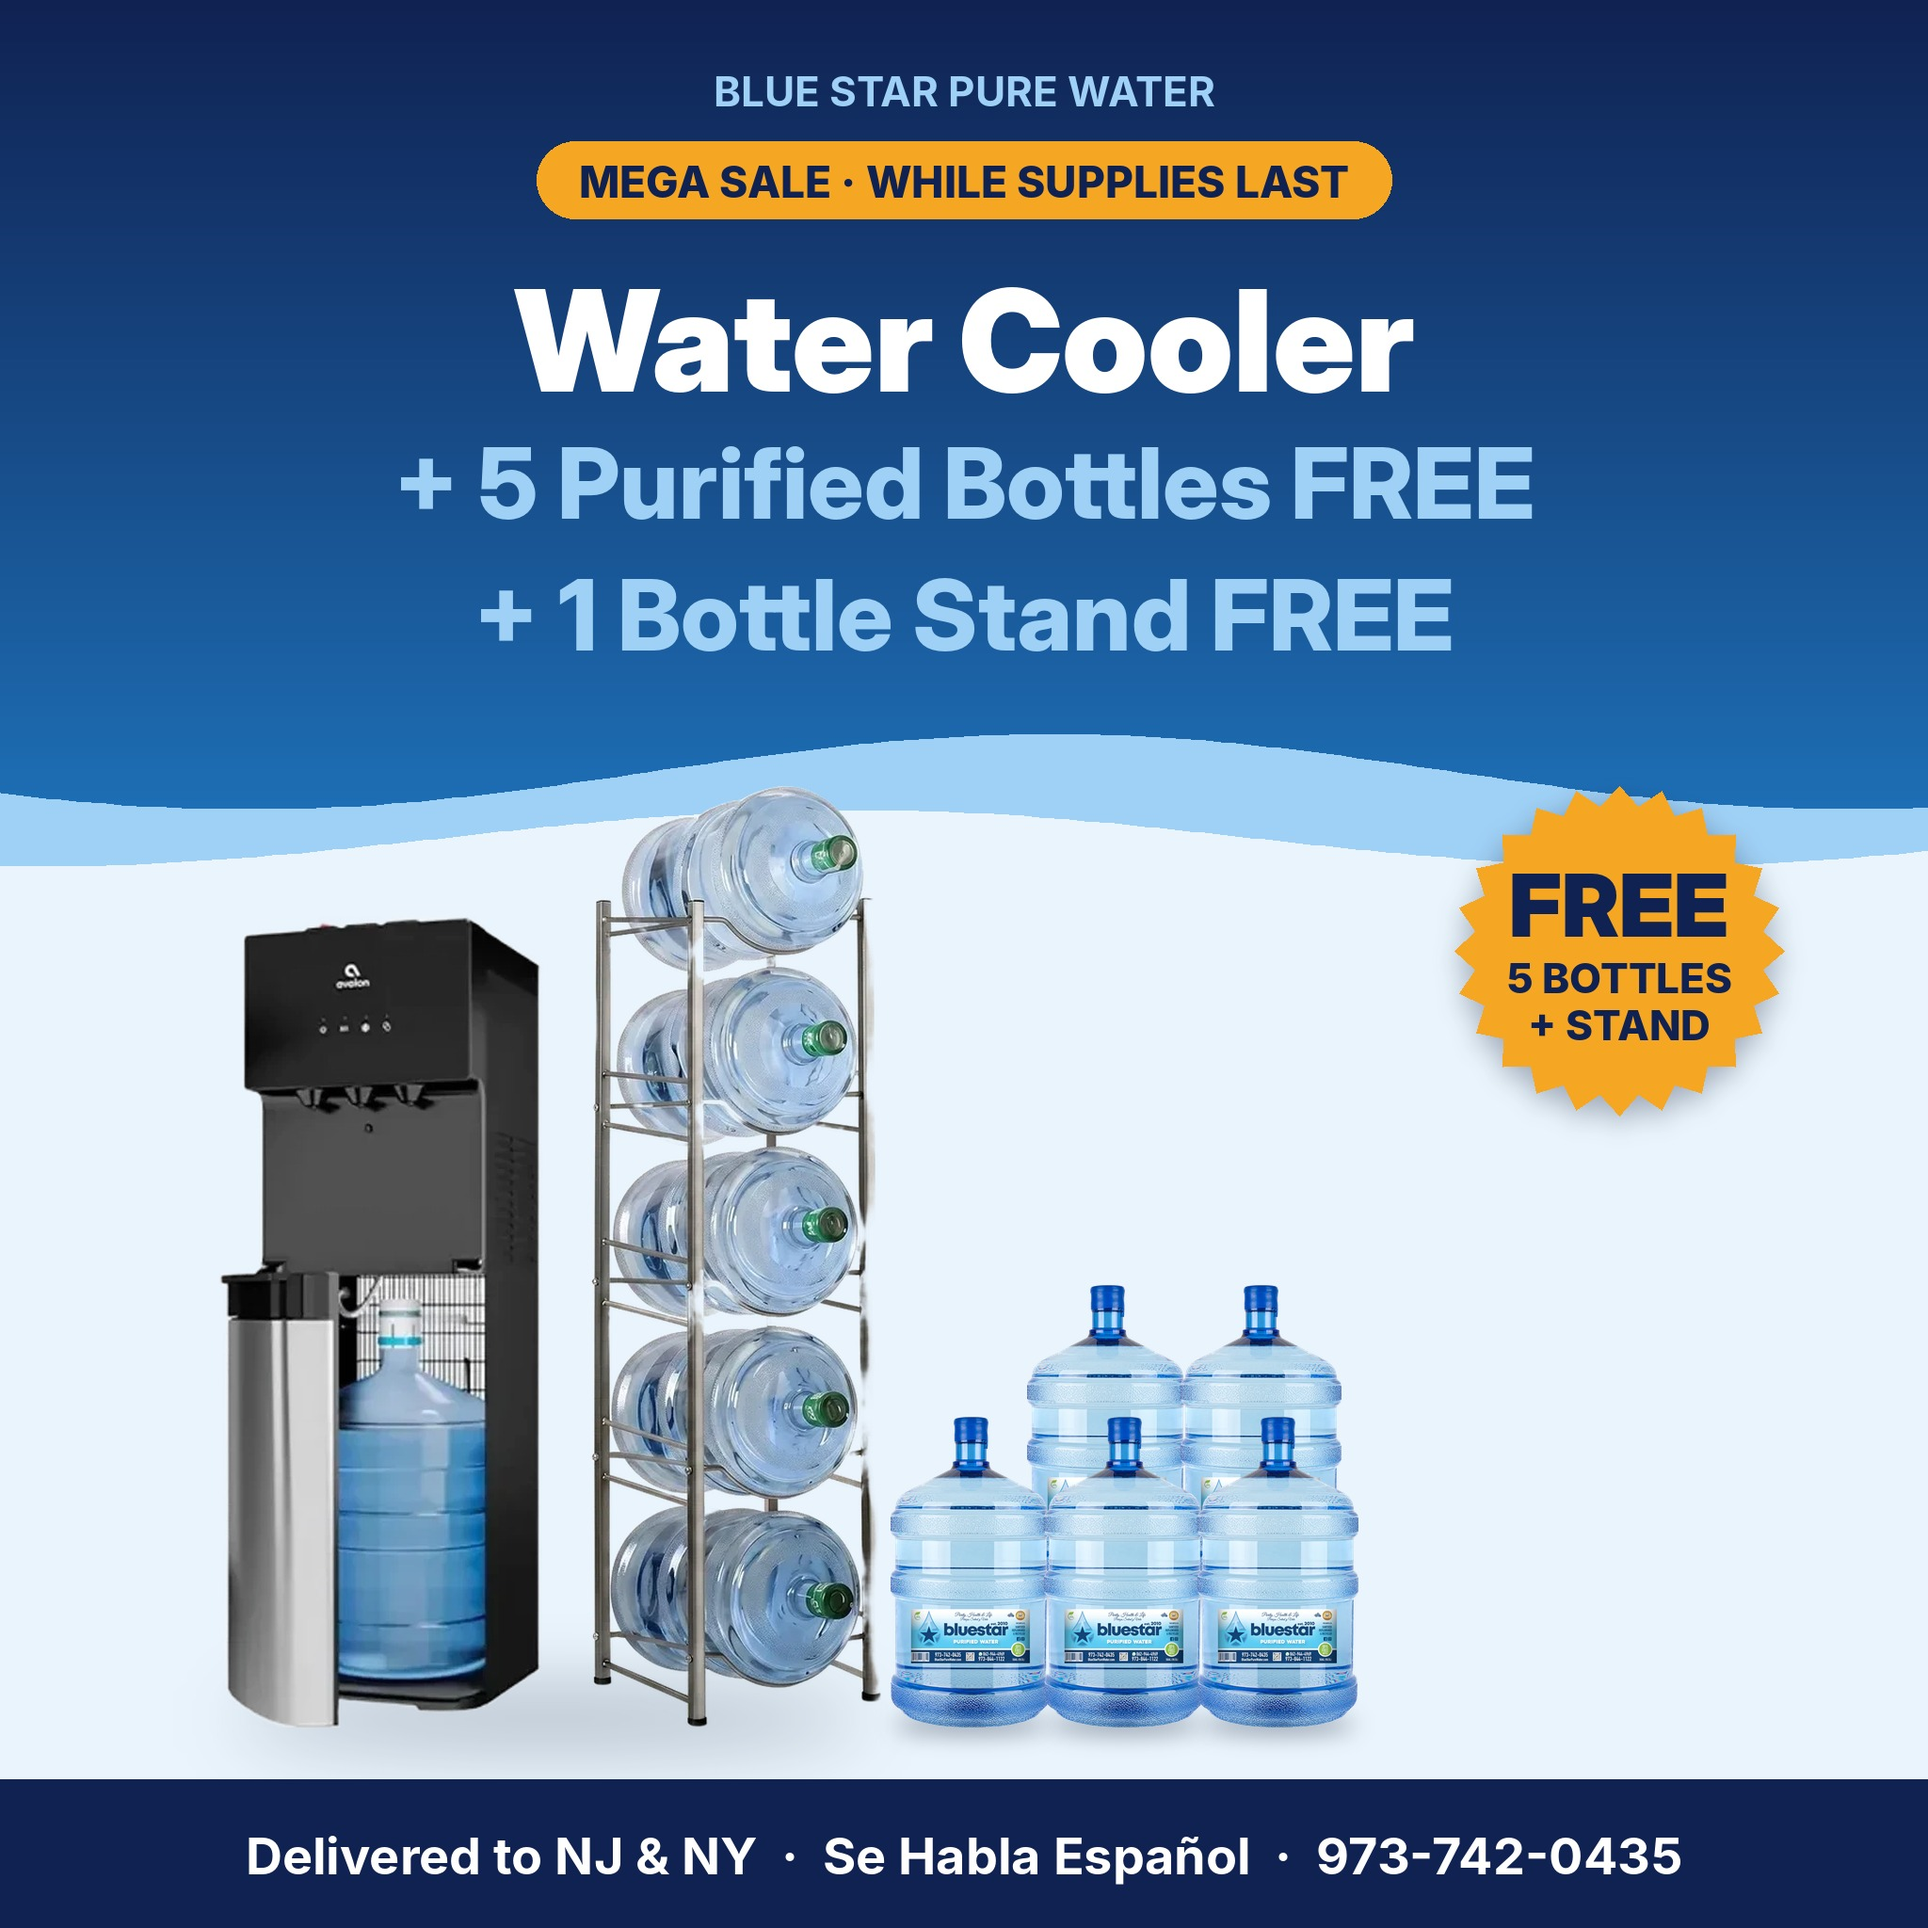
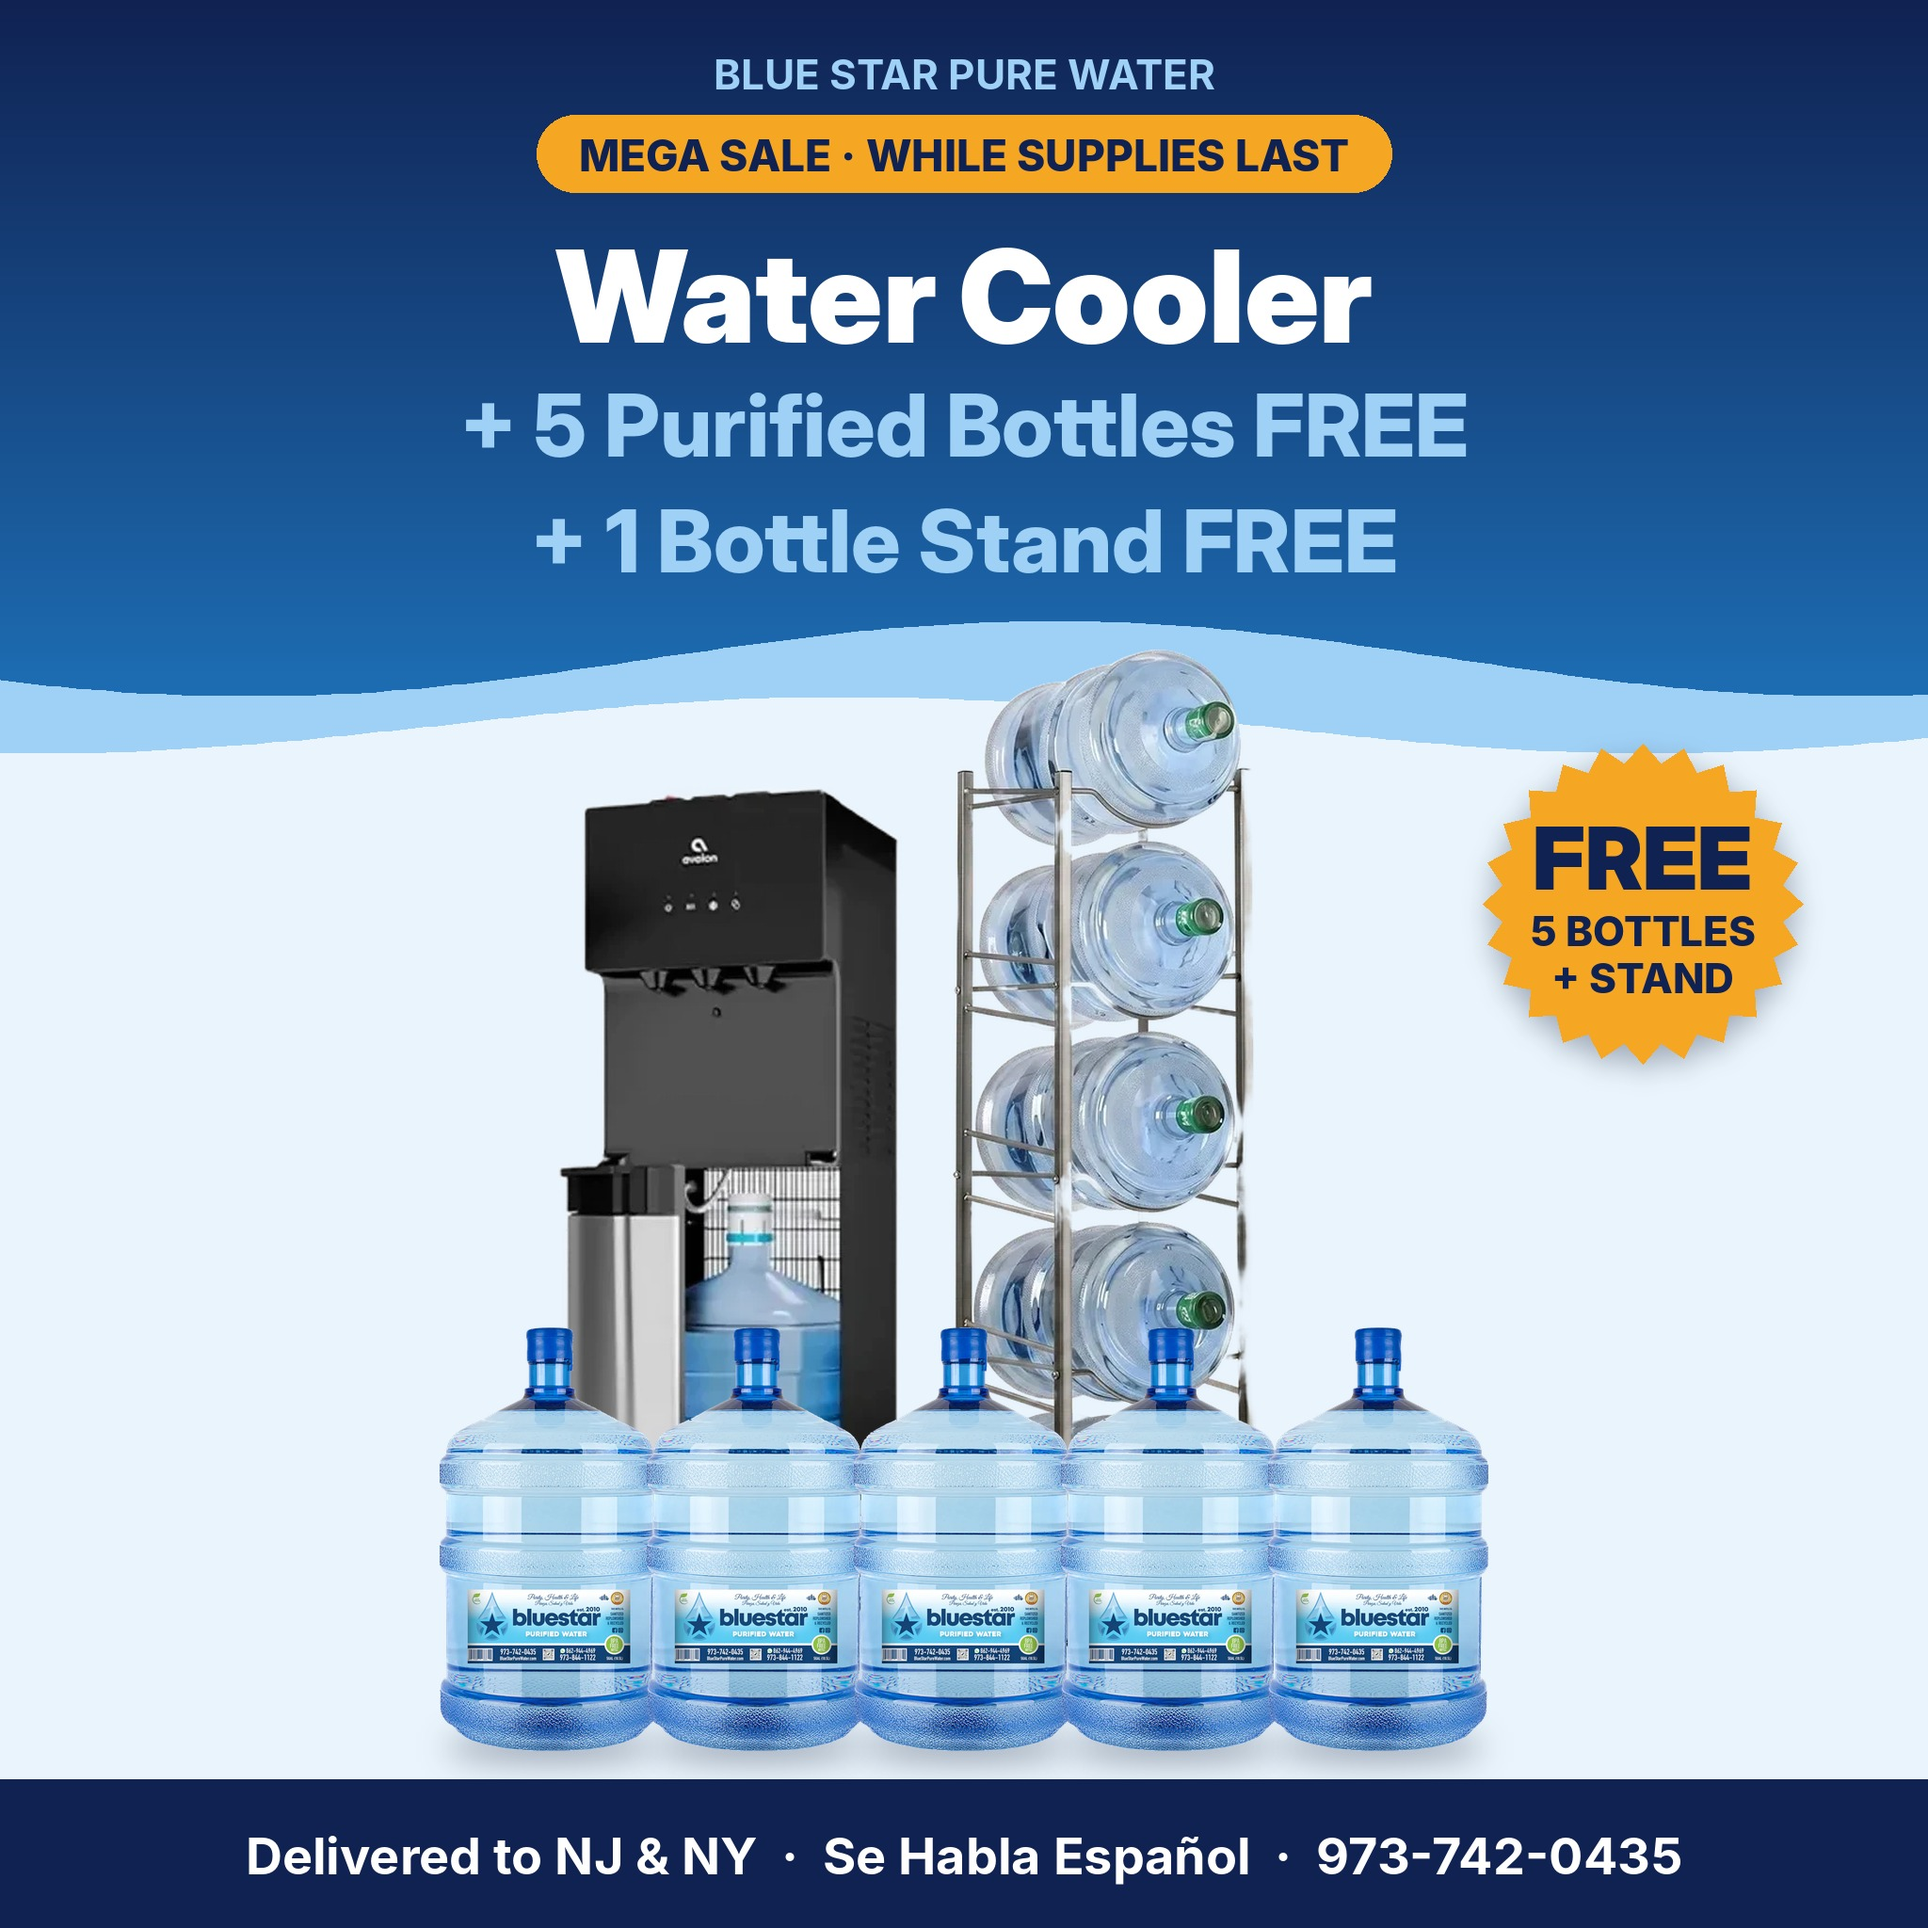
Bundle promo: bigger products, jugs in one row
Claude-Session: https://claude.ai/code/session_011y2TH2zgT7H1AYYPi3Ntwd

diff --git a/product-photos/src/bundle_promo.py b/product-photos/src/bundle_promo.py
@@ -15,7 +15,7 @@ c=Image.new('RGBA',(W,W),SKY+(255,))
 d=ImageDraw.Draw(c)
 # top gradient band with wave edge
 top=Image.new('RGBA',(W,W),(0,0,0,0)); td=ImageDraw.Draw(top)
-band=820
+band=700
 for y in range(band+120):
     t=y/(band+120); col=tuple(int(NAVY[i]*(1-t)+BLUE[i]*t) for i in range(3))
     td.line([(0,y),(W,y)],fill=col+(255,))
@@ -31,17 +31,17 @@ d=ImageDraw.Draw(c)
 def ctext(y,txt,f,fill):
     w=d.textlength(txt,font=f); d.text(((W-w)/2,y),txt,font=f,fill=fill); return f.getbbox(txt)[3]
 # brand line
-ctext(70,T['brand'],font('Inter-Bold.otf',44),(159,208,245))
+ctext(52,T['brand'],font('Inter-Bold.otf',44),(159,208,245))
 # pill
 pf=font('Inter-ExtraBold.otf',46); pw=d.textlength(T['pill'],font=pf)+90; px=(W-pw)/2
-d.rounded_rectangle((px,150,px+pw,232),radius=41,fill=GOLD); ctext(165,T['pill'],pf,NAVY)
+d.rounded_rectangle((px,122,px+pw,204),radius=41,fill=GOLD); ctext(137,T['pill'],pf,NAVY)
 # headline (auto-fit)
 def fit(txt,name,size,maxw):
     while d.textlength(txt,font=font(name,size))>maxw: size-=4
     return font(name,size)
-ctext(270,T['h1'],fit(T['h1'],'InterDisplay-Black.otf',150,1850),WHITE)
-ctext(450,T['h2'],fit(T['h2'],'InterDisplay-ExtraBold.otf',104,1850),(159,208,245))
-ctext(590,T['h3'],fit(T['h3'],'InterDisplay-ExtraBold.otf',104,1850),(159,208,245))
+ctext(232,T['h1'],fit(T['h1'],'InterDisplay-Black.otf',136,1850),WHITE)
+ctext(395,T['h2'],fit(T['h2'],'InterDisplay-ExtraBold.otf',92,1850),(159,208,245))
+ctext(518,T['h3'],fit(T['h3'],'InterDisplay-ExtraBold.otf',92,1850),(159,208,245))
 # products
 back=Image.open(SRC).convert('RGBA'); back=back.crop(back.getbbox())
 jug=Image.open(JUG).convert('RGBA'); jug=jug.crop(jug.getbbox())
@@ -52,13 +52,13 @@ def floor_shadow(cx,cy,w,h,op):
 def put(im,h,x,yb,op=110):
     w=int(im.width*h/im.height); j=im.resize((w,h),Image.LANCZOS)
     floor_shadow(x+w/2,yb-h*0.01,int(w*0.95),max(12,int(h*0.06)),op); c.alpha_composite(j,(int(x),int(yb-h))); return w
-floor=1835; bh=1000; bw=int(back.width*bh/back.height); bx=230
-put(back,bh,bx,floor,70)
-jh=330; jw=int(jug.width*jh/jug.height); g=-8; x0=bx+bw+30
-for i in range(2): put(jug,jh,x0+jw*0.5+i*(jw+g)+40,floor-140)
-for i in range(3): put(jug,jh,x0+i*(jw+g)-20,floor)
+floor=1860; bh=1060; bw=int(back.width*bh/back.height); bx=(W-bw)//2-60
+put(back,bh,bx,floor-110,70)
+jh=450; jw=int(jug.width*jh/jug.height); g=-14
+tot=5*jw+4*g; x0=(W-tot)//2
+for i in range(5): put(jug,jh,x0+i*(jw+g),floor)
 # FREE burst
-cx,cy,r=1720,1010,175
+cx,cy,r=1745,960,170
 burst=Image.new('RGBA',(W,W),(0,0,0,0)); bd=ImageDraw.Draw(burst)
 pts=[]
 for k in range(48):
